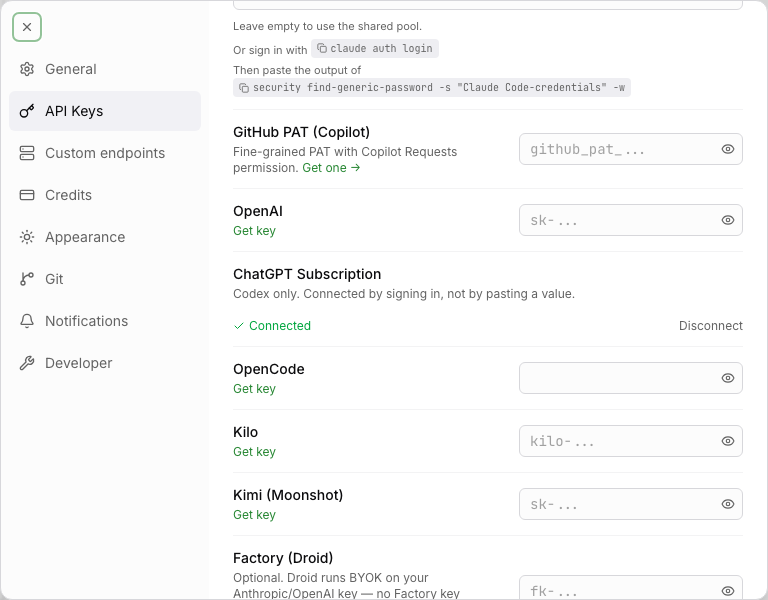
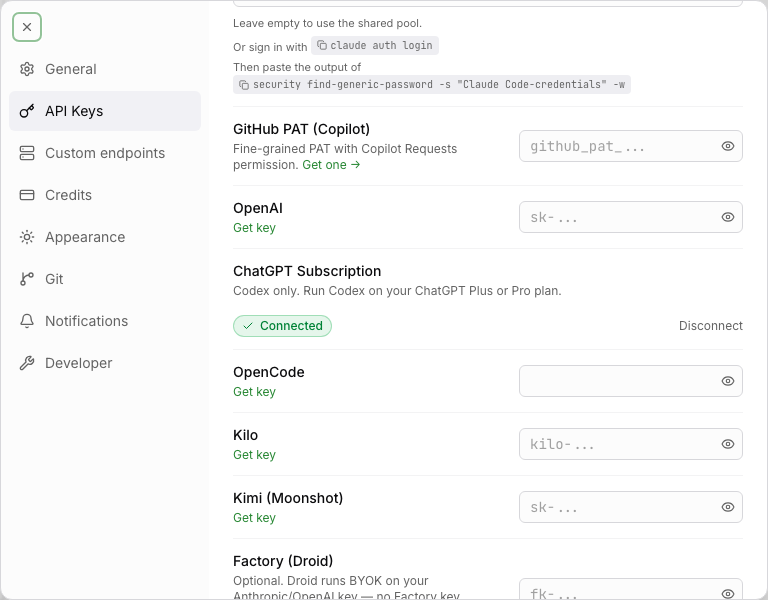
fix(web): unlock Codex models as soon as the subscription connects
Connecting wrote through /api/user/codex-auth, which nothing else watches, so the settings query kept serving a stale credentialFlags. The row said Connected while the model picker still sent the user to the API-key screen until a full reload. Invalidate the settings query on connect and disconnect.

That exposed a second bug: SettingsModal's reset effect depended on settings and credentialFlags, so ANY refetch re-ran it while the modal was open, discarding in-progress edits and throwing the user back to the default section. It already fired on the query's window-focus refetch; the new invalidation just made it reproducible. Guard the reset on the closed to open transition.

Also reword the row description, which read 'Connected by signing in...' directly above a 'Connected' status, and show the status as a badge.

diff --git a/packages/web/components/modals/settings/CodexConnectionRow.tsx b/packages/web/components/modals/settings/CodexConnectionRow.tsx
@@ -1,8 +1,10 @@
 "use client"
 
 import { useEffect, useRef, useState, type ReactNode } from "react"
+import { useQueryClient } from "@tanstack/react-query"
 import { Check, Loader2 } from "lucide-react"
 import { cn } from "@/lib/utils"
+import { queryKeys } from "@/lib/query/keys"
 import { SettingsRow } from "./shared"
 
 type Phase =
@@ -98,6 +100,19 @@ export function CodexConnectionRow({
   // to look frozen, so the copy can acknowledge it is still working.
   const [connectRunningLong, setConnectRunningLong] = useState(false)
   const slowTimerRef = useRef<ReturnType<typeof setTimeout> | null>(null)
+  const queryClient = useQueryClient()
+
+  /**
+   * Connecting and disconnecting change `credentialFlags.CODEX_CREDENTIALS`,
+   * which is what unlocks Codex models in the agent/model picker. That flag
+   * rides on the settings query, and this flow writes through
+   * /api/user/codex-auth rather than the settings mutation, so nothing else
+   * refreshes it. Without this the row reads "Connected" while the picker
+   * still sends the user to the API-key screen until a full page reload.
+   */
+  function refreshCredentialFlags() {
+    queryClient.invalidateQueries({ queryKey: queryKeys.settings.all })
+  }
 
   function clearPoll() {
     if (pollRef.current) {
@@ -184,6 +199,7 @@ export function CodexConnectionRow({
           if (status.status === "connected") {
             clearPoll()
             setPhase({ kind: "connected", needsReconnect: false })
+            refreshCredentialFlags()
           } else if (status.status === "failed") {
             clearPoll()
             setPhase({ kind: "error", message: reasonMessage(status.reason, POLL_FALLBACK) })
@@ -211,6 +227,7 @@ export function CodexConnectionRow({
       if (!mountedRef.current) return
       if (res.ok) {
         setPhase({ kind: "disconnected" })
+        refreshCredentialFlags()
       } else {
         // Only a 200 counts as disconnected. On failure, go back to the
         // connected state (not the generic error phase, which renders a
@@ -247,12 +264,18 @@ export function CodexConnectionRow({
           {phase.kind === "connected" && (
             <span
               className={cn(
-                "flex items-center gap-1",
-                needsReconnect ? "text-amber-600" : "text-green-600 dark:text-green-400"
+                "inline-flex items-center gap-1.5 rounded-full border px-2 py-0.5 font-medium",
+                needsReconnect
+                  ? "border-amber-500/30 bg-amber-500/10 text-amber-600 dark:text-amber-400"
+                  : "border-green-600/30 bg-green-600/10 text-green-700 dark:text-green-400"
               )}
             >
-              {!needsReconnect && <Check className="h-3 w-3" />}
-              {needsReconnect ? "Connection expired" : "Connected"}
+              {needsReconnect ? (
+                <span className="h-1.5 w-1.5 rounded-full bg-amber-500" />
+              ) : (
+                <Check className="h-3 w-3" />
+              )}
+              {needsReconnect ? "Expired" : "Connected"}
             </span>
           )}
           {phase.kind === "disconnected" && (

diff --git a/packages/web/components/modals/SettingsModal.tsx b/packages/web/components/modals/SettingsModal.tsx
@@ -174,9 +174,20 @@ export function SettingsModal({ open, onClose, settings, credentialFlags, onSave
     return out
   }, [credValues, credentialFlags])
 
-  // Reset form when modal opens
+  // Reset form when modal opens.
+  //
+  // Guarded on the closed -> open TRANSITION, not just `open`. `settings` and
+  // `credentialFlags` are fresh objects on every settings refetch, and this
+  // query refetches on window focus and whenever something invalidates it
+  // (connecting or disconnecting a ChatGPT subscription does). Without the
+  // guard, any of those re-ran this while the modal was open: in-progress
+  // edits were discarded and the user was thrown back to the default section
+  // mid-task.
+  const wasOpenRef = useRef(false)
   useEffect(() => {
-    if (open) {
+    const justOpened = open && !wasOpenRef.current
+    wasOpenRef.current = open
+    if (justOpened) {
       setCredValues(initialCredValues(credentialFlags))
       setEndpoints(initialEndpoints)
       setDefaultAgent(initialDefaultAgent)

diff --git a/packages/web/lib/credentials.ts b/packages/web/lib/credentials.ts
@@ -70,7 +70,7 @@ export const CREDENTIAL_KEYS: readonly CredentialField[] = [
     id: "CODEX_CREDENTIALS",
     provider: "openai",
     label: "ChatGPT Subscription",
-    description: "Codex only. Connected by signing in, not by pasting a value.",
+    description: "Codex only. Run Codex on your ChatGPT Plus or Pro plan.",
     serverManaged: true,
   },
   {
